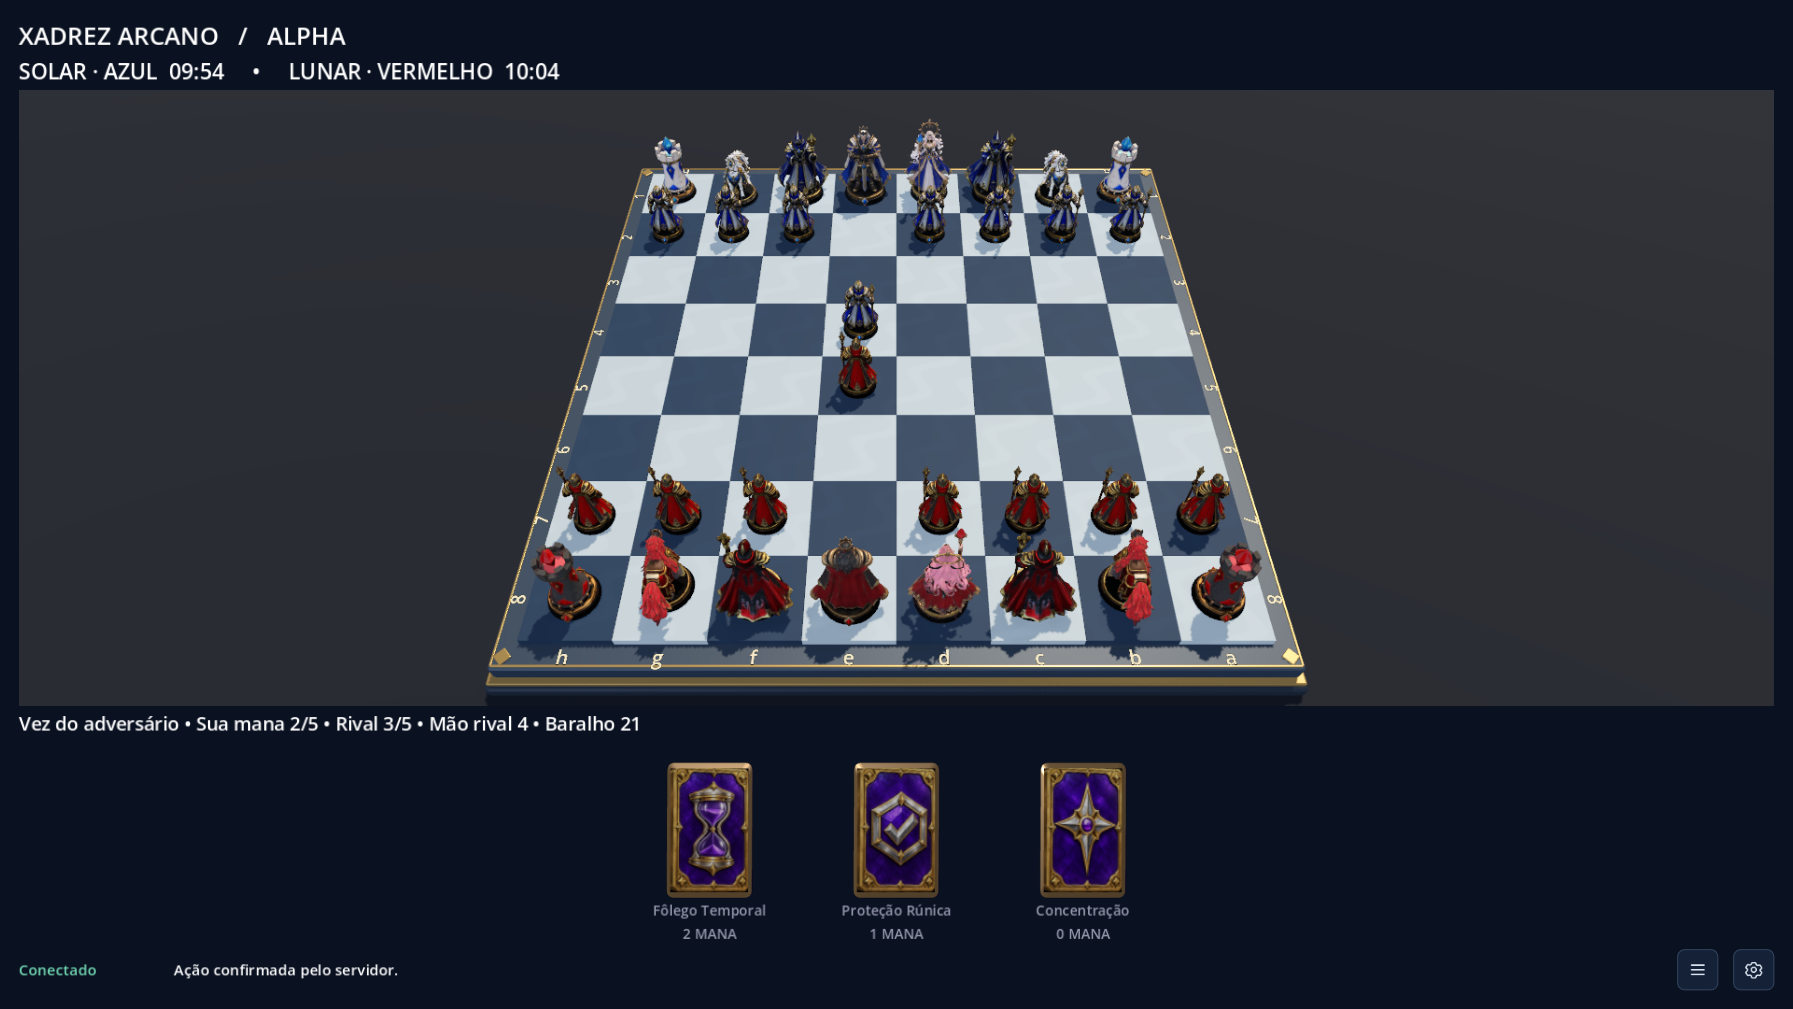
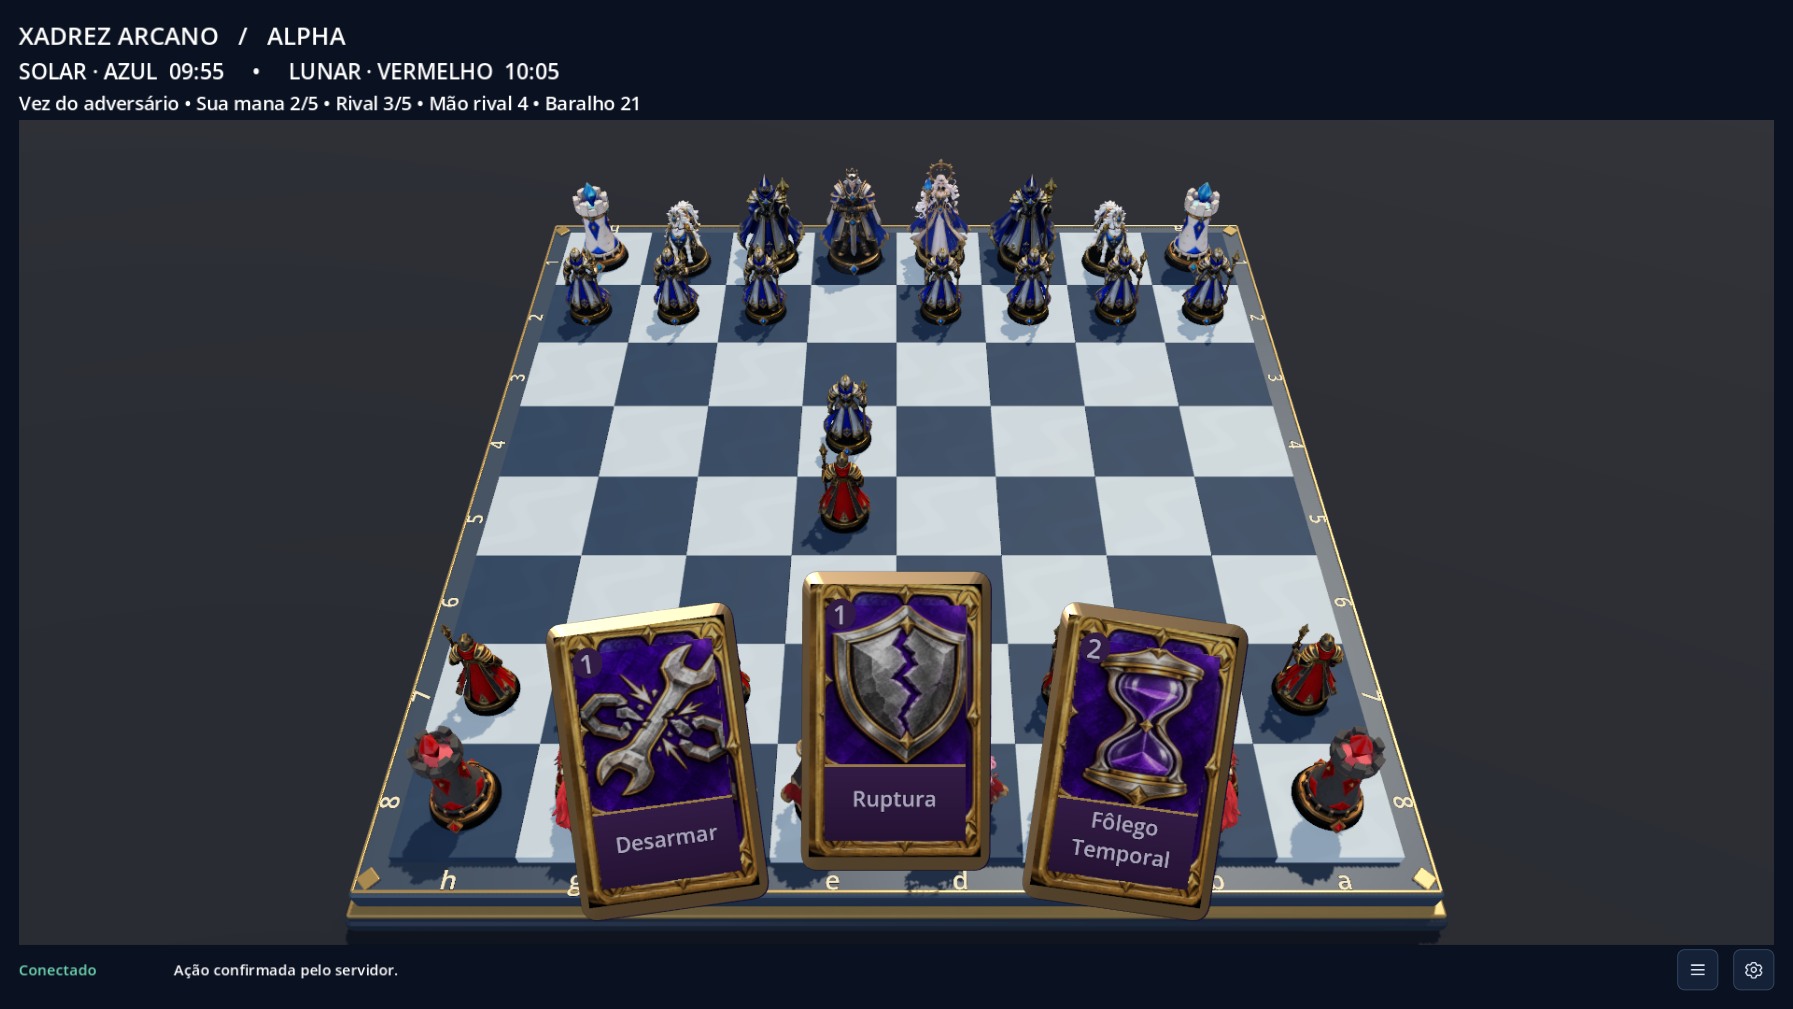
feat: sobrepoe cartas maiores em leque sobre o jogo

diff --git a/README.md b/README.md
@@ -36,7 +36,7 @@ Para apenas iniciar o backend: `./tools/Start-Dev.ps1`. Para abrir um cliente: `
 - A apresentação usa base Full HD (1920×1080) e abre maximizada. **F11** alterna a tela cheia; **Esc** sai dela. O tabuleiro e as peças ocupam uma área maior da tela.
 - Clique em uma peça sua e depois numa casa destacada.
 - Clique numa carta, escolha o alvo no tabuleiro e confirme **Conjurar**. Cartas pessoais usam alvo automático. Dissipação exige escolher qual efeito remover.
-- As cartas usam um modelo físico 3D compartilhado, com moldura e espessura; cada magia troca apenas a imagem da face. A seleção eleva e destaca a carta. O botão **Conjurar** fica na barra lateral acessível por **☰**.
+- As cartas usam um modelo físico 3D compartilhado, com imagens intercambiáveis, e flutuam sobre o jogo em um leque de aproximadamente 320 px de altura em Full HD. Nome e mana ficam dentro da face. Ao levar o mouse da mão ao tabuleiro, ela recolhe para liberar peças e alvos; passe nas bordas inferiores para abrir novamente. Cancelar ou conjurar também reabre a mão. O botão **Conjurar** fica na barra lateral acessível por **☰**. A preferência de animações controla as transições.
 - Faça o movimento depois da carta. Existe uma única conjuração por turno.
 - Botão direito arrastado gira a câmera; roda do mouse aproxima; há opção de visão superior.
 - O botão **☰**, ao lado da engrenagem no rodapé, mostra ou oculta toda a barra lateral (conexão, salas, tutorial, ações, histórico e catálogo). Ela começa oculta; sua escolha é salva por perfil. Ao recolher, o tabuleiro e as cartas ocupam o espaço liberado.

diff --git a/docs/STATUS.md b/docs/STATUS.md
@@ -20,6 +20,7 @@
 - Indicador de conexão separado das ações, confirmação pelo primeiro snapshot, prazo de 10 segundos e três reconexões automáticas; reenvio mantém o identificador do comando.
 - Barra lateral recolhível pelo botão ☰ ao lado da engrenagem, inicialmente oculta, com preferência por perfil e preservação de campos, seleção e rolagem; regressões de cliques com ambos os layouts.
 - Cartas físicas 3D com uma única malha compartilhada e 12 imagens de face; mundo e iluminação próprios, seleção elevada, cache e renderização somente quando necessário. Base gerada pelo Modelador3d oficial e preparada para texturas substituíveis; instruções em `AGENTS.md` e `art/cards/README.md`.
+- Mão flutuante transparente em leque, cartas de aproximadamente 320 px em Full HD, nome e mana nas faces e região inferior preparada para mais texto. Recolhimento/expansão pelo mouse libera movimentos e alvos, sem faixa separada; testes cobrem cliques entre polígonos, cartas bloqueadas e prioridade dos menus.
 - Engrenagem no rodapé com logs detalhados como primeiro checkbox; preferências locais separadas das sessões, qualidade, animações, visão superior e tela cheia.
 - Logs estruturados do cliente com captura de erros de scripts, rotação, proteção de dados e escrita concorrente; inicializador e servidor também possuem registros operacionais.
 

diff --git a/art/cards/README.md b/art/cards/README.md
@@ -4,6 +4,8 @@ Existe **um modelo de carta em produção**: `client-godot/assets/cards/models/c
 As 12 magias mudam apenas a imagem da face; corpo, moldura e malhas são compartilhados.
 Nome, custo e descrição continuam como texto acessível do Godot.
 
+A mão é uma sobreposição transparente ao tabuleiro, sem faixa de fundo ou espaço reservado no layout. As cartas ficam em leque, com cerca de 320 px em Full HD; nome e mana são `Label3D` presos à face e a ilustração deixa espaço inferior para texto futuro. A descrição permanece no tooltip. O mouse sobre o tabuleiro recolhe a mão a 72 px visíveis; passar nas bordas reabre. Transições de 180 ms respeitam a opção de animações. As áreas clicáveis seguem os polígonos projetados, permitindo clicar no jogo entre cartas; menus e rodapé permanecem acima/fora da mão.
+
 ## Origem e preparação
 
 - Modelador oficial: `C:\Projetos\Modelador3d`, imagem congelada `trellis2-rtx5060:isolated-v1`.
